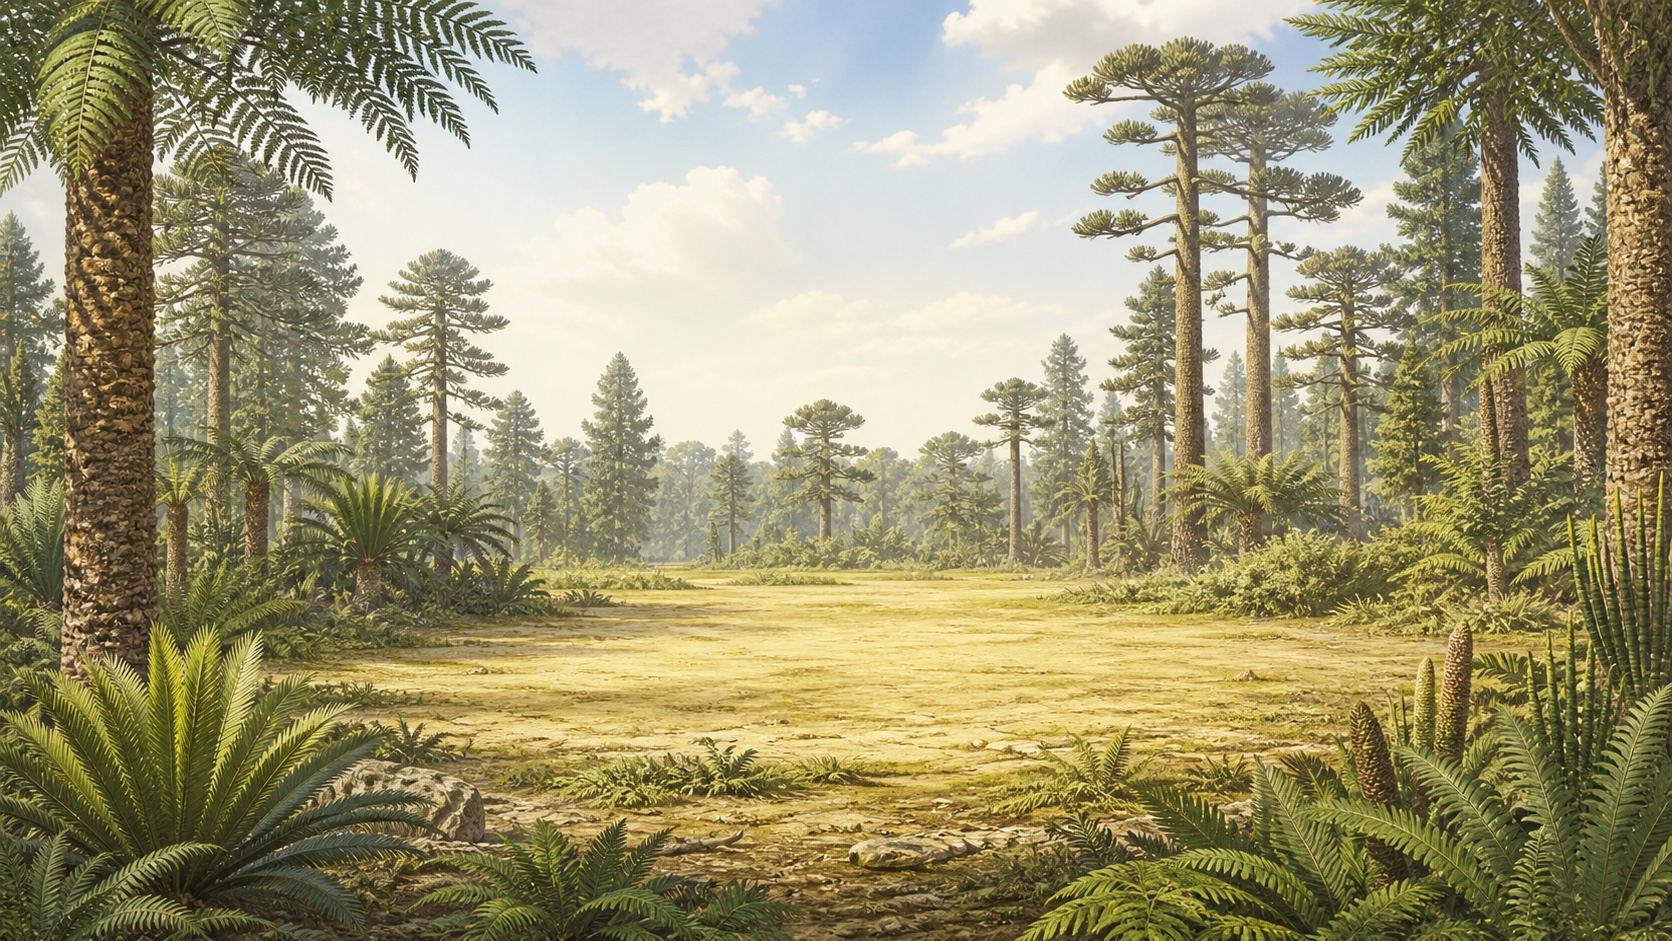
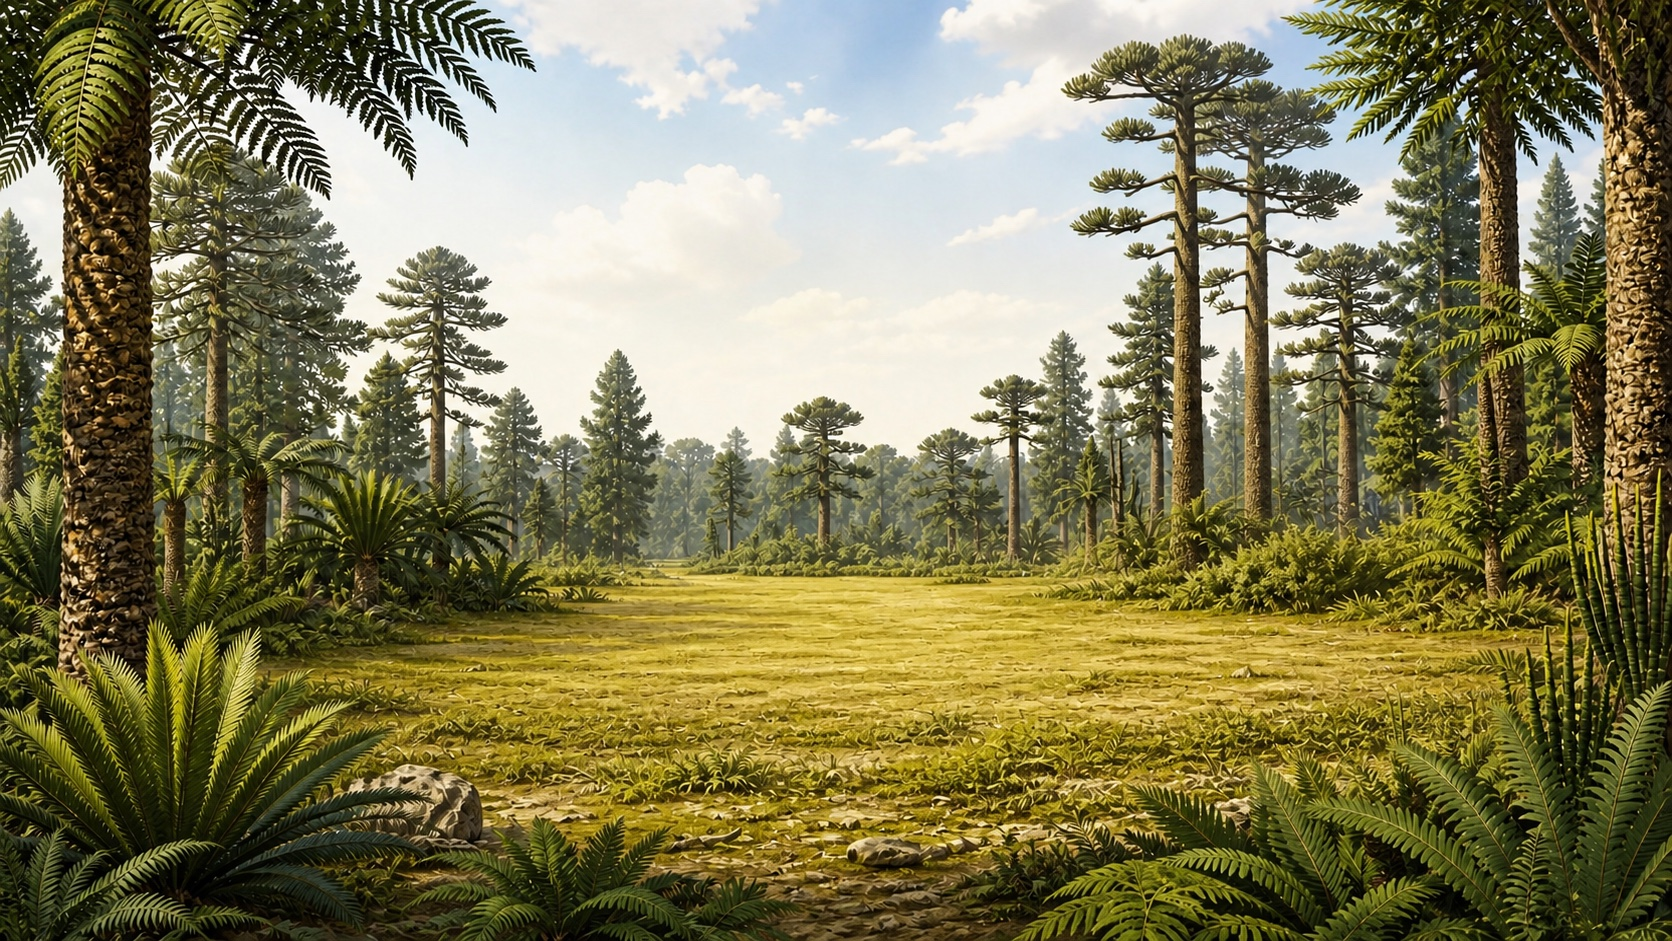
Refine museum model scale and visual alignment

diff --git a/app/globals.css b/app/globals.css
@@ -799,10 +799,10 @@ button, select { cursor: pointer; }
 .animal-museum-viewer__eyebrow { margin: 42px 0 0; color: #9b6544; font: 750 10px/1.2 var(--font-mono),monospace; letter-spacing: .05em; }
 .animal-museum-viewer__eyebrow i { margin: 0 6px; color: #b4ab9b; font-style: normal; }
 .animal-museum-viewer__info h1 { margin: 13px 0 16px; color: #2c5748; font-size: clamp(48px, 5.4vw, 72px); font-weight: 790; line-height: .86; letter-spacing: -.08em; }
-.animal-museum-viewer__field-note { display: flex; gap: 10px; max-width: 330px; margin: 0; color: #3e584e; font-size: 17px; font-weight: 680; line-height: 1.5; }
+.animal-museum-viewer__field-note { display: flex; gap: 10px; max-width: 300px; margin: 0; color: #3e584e; font-size: 18.5px; font-weight: 680; line-height: 1.55; }
 .animal-museum-viewer__field-note span { flex: 0 0 auto; color: #a9774b; font-size: 14px; line-height: 1.5; }
-.animal-museum-viewer__actions { display: grid; grid-template-columns: 1fr 1fr; gap: 8px; margin-top: 25px; }
-.animal-museum-viewer__actions button, .animal-museum-viewer__back { display: inline-flex; align-items: center; justify-content: center; gap: 9px; border: 1px solid rgba(49,93,77,.22); border-radius: 999px; background: rgba(255,255,255,.5); color: #315d4d; padding: 12px 12px; font: 800 10px/1 var(--font-mono),monospace; transition: background .2s, color .2s, transform .2s; }
+.animal-museum-viewer__actions { display: grid; grid-template-columns: 1fr 1fr; gap: 8px; margin-top: 30px; }
+.animal-museum-viewer__actions button, .animal-museum-viewer__back { display: inline-flex; align-items: center; justify-content: center; gap: 9px; border: 1px solid rgba(49,93,77,.22); border-radius: 999px; background: rgba(255,255,255,.5); color: #315d4d; padding: 15px 12px; font: 800 10px/1 var(--font-mono),monospace; transition: background .2s, color .2s, transform .2s; }
 .animal-museum-viewer__actions button span, .animal-museum-viewer__back span { font-size: 16px; }
 .animal-museum-viewer__actions button:hover, .animal-museum-viewer__actions button:focus-visible, .animal-museum-viewer__back:hover, .animal-museum-viewer__back:focus-visible { background: #315d4d; color: #f5f2e7; transform: translateY(-1px); outline: 0; }
 .animal-museum-viewer__actions .is-primary { border-color: #315d4d; background: #315d4d; color: #f5f2e7; }
@@ -810,16 +810,16 @@ button, select { cursor: pointer; }
 .animal-museum-viewer__guide { margin-top: 12px; border-top: 1px solid rgba(49,93,77,.18); padding-top: 13px; color: #526c61; font-size: 11px; line-height: 1.5; }
 .animal-museum-viewer__guide strong { color: #9b6544; font: 800 9px/1 var(--font-mono),monospace; letter-spacing: .08em; text-transform: uppercase; }
 .animal-museum-viewer__guide p { margin: 8px 0 0; }
-.animal-museum-viewer__back { width: 100%; margin-top: 8px; border-radius: 14px; background: rgba(255,255,255,.32); }
-.animal-museum-viewer__model-stage { position: absolute; z-index: 2; inset: 0; display: grid; place-items: center; padding: 70px 7vw 120px 32vw; cursor: grab; touch-action: none; }
+.animal-museum-viewer__back { width: 100%; margin-top: 8px; border-radius: 14px; background: rgba(255,255,255,.32); padding-block: 15px; }
+.animal-museum-viewer__model-stage { position: absolute; z-index: 2; inset: 0; display: grid; place-items: center; padding: 70px 7vw 200px 32vw; cursor: grab; touch-action: none; }
 .animal-museum-viewer__model-stage:active { cursor: grabbing; }
 .animal-museum-viewer__model-glow { position: absolute; width: min(58vw, 720px); aspect-ratio: 1; border-radius: 50%; opacity: .34; background: radial-gradient(circle, rgba(234,206,132,.54), rgba(234,206,132,0) 68%); filter: blur(10px); pointer-events: none; }
-.animal-museum-viewer__model { position: relative; z-index: 2; width: min(50vw, 840px); height: auto; max-height: 68vh; object-fit: contain; filter: drop-shadow(0 32px 22px rgba(10,18,12,.45)); transform: perspective(1100px) rotateX(var(--model-rotate-x)) rotateY(var(--model-rotate-y)) scale(var(--model-scale)); transition: transform .18s ease-out; user-select: none; pointer-events: none; }
+.animal-museum-viewer__model { position: relative; z-index: 2; width: min(42vw, 840px); height: auto; max-height: 62vh; object-fit: contain; filter: drop-shadow(0 32px 22px rgba(10,18,12,.45)); transform: perspective(1100px) rotateX(var(--model-rotate-x)) rotateY(var(--model-rotate-y)) scale(var(--model-scale)); transition: transform .18s ease-out; user-select: none; pointer-events: none; }
 .animal-museum-viewer__scene-tag { position: relative; z-index: 2; display: grid; place-items: center; gap: 10px; width: 156px; height: 156px; border: 1px solid rgba(255,255,255,.6); border-radius: 50%; background: rgba(247,245,235,.82); color: #315d4d; box-shadow: 0 20px 50px rgba(0,0,0,.2); backdrop-filter: blur(12px); }
 .animal-museum-viewer__scene-tag span { font: 750 8px/1 var(--font-mono),monospace; letter-spacing: .09em; text-transform: uppercase; }
 .animal-museum-viewer__scene-tag strong { font: 850 24px/1 var(--font-mono),monospace; }
 .animal-museum-viewer__hint { position: absolute; z-index: 3; right: 7vw; bottom: 132px; border: 1px solid rgba(255,255,255,.46); border-radius: 999px; background: rgba(247,245,235,.78); color: #416154; padding: 9px 14px; font: 750 9px/1 var(--font-mono),monospace; backdrop-filter: blur(10px); }
-.animal-museum-viewer__side-controls { position: absolute; z-index: 9; right: 20px; top: 50%; display: grid; width: 45px; overflow: hidden; transform: translateY(-50%); border: 1px solid rgba(255,255,255,.4); border-radius: 24px; background: rgba(34,52,45,.72); box-shadow: 0 12px 30px rgba(0,0,0,.25); backdrop-filter: blur(12px); }
+.animal-museum-viewer__side-controls { display: none; }
 .animal-museum-viewer__side-controls button { height: 43px; border: 0; border-bottom: 1px solid rgba(255,255,255,.14); background: transparent; color: #e7ebd9; font: 650 18px/1 var(--font-mono),monospace; }
 .animal-museum-viewer__side-controls button:last-child { border-bottom: 0; }
 .animal-museum-viewer__side-controls button:hover, .animal-museum-viewer__side-controls button:focus-visible { background: #d6f85c; color: #243d33; outline: 0; }
